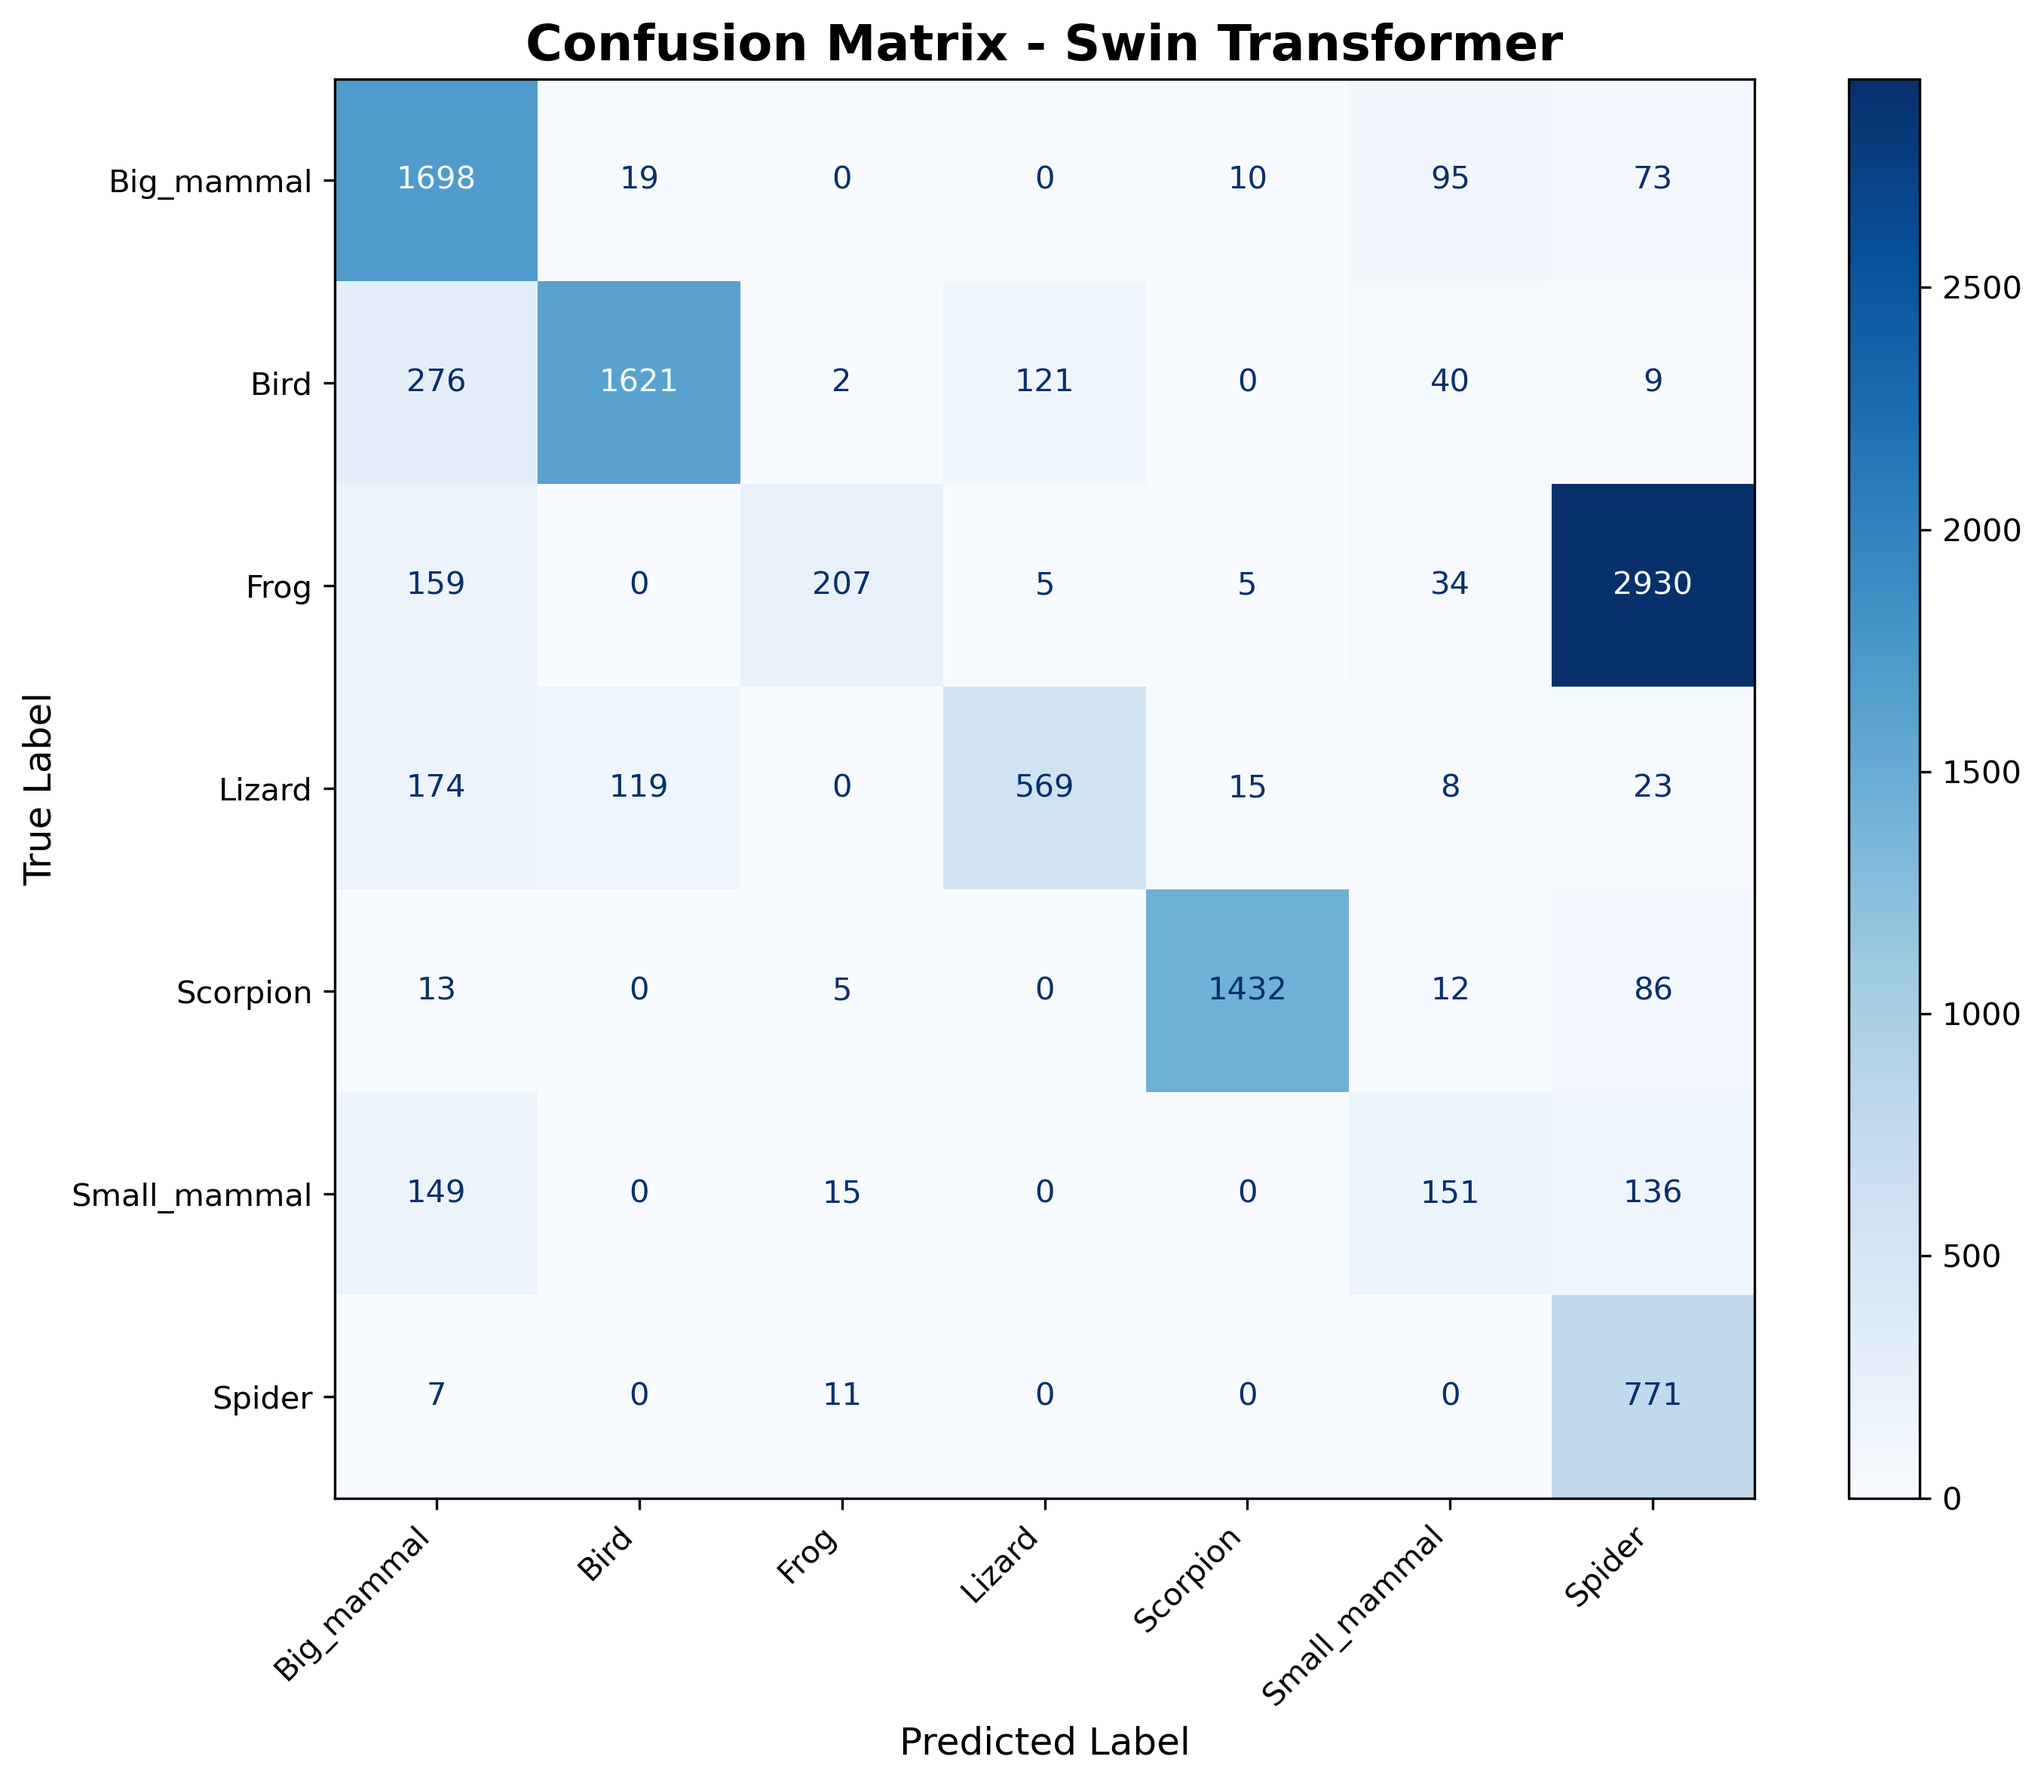
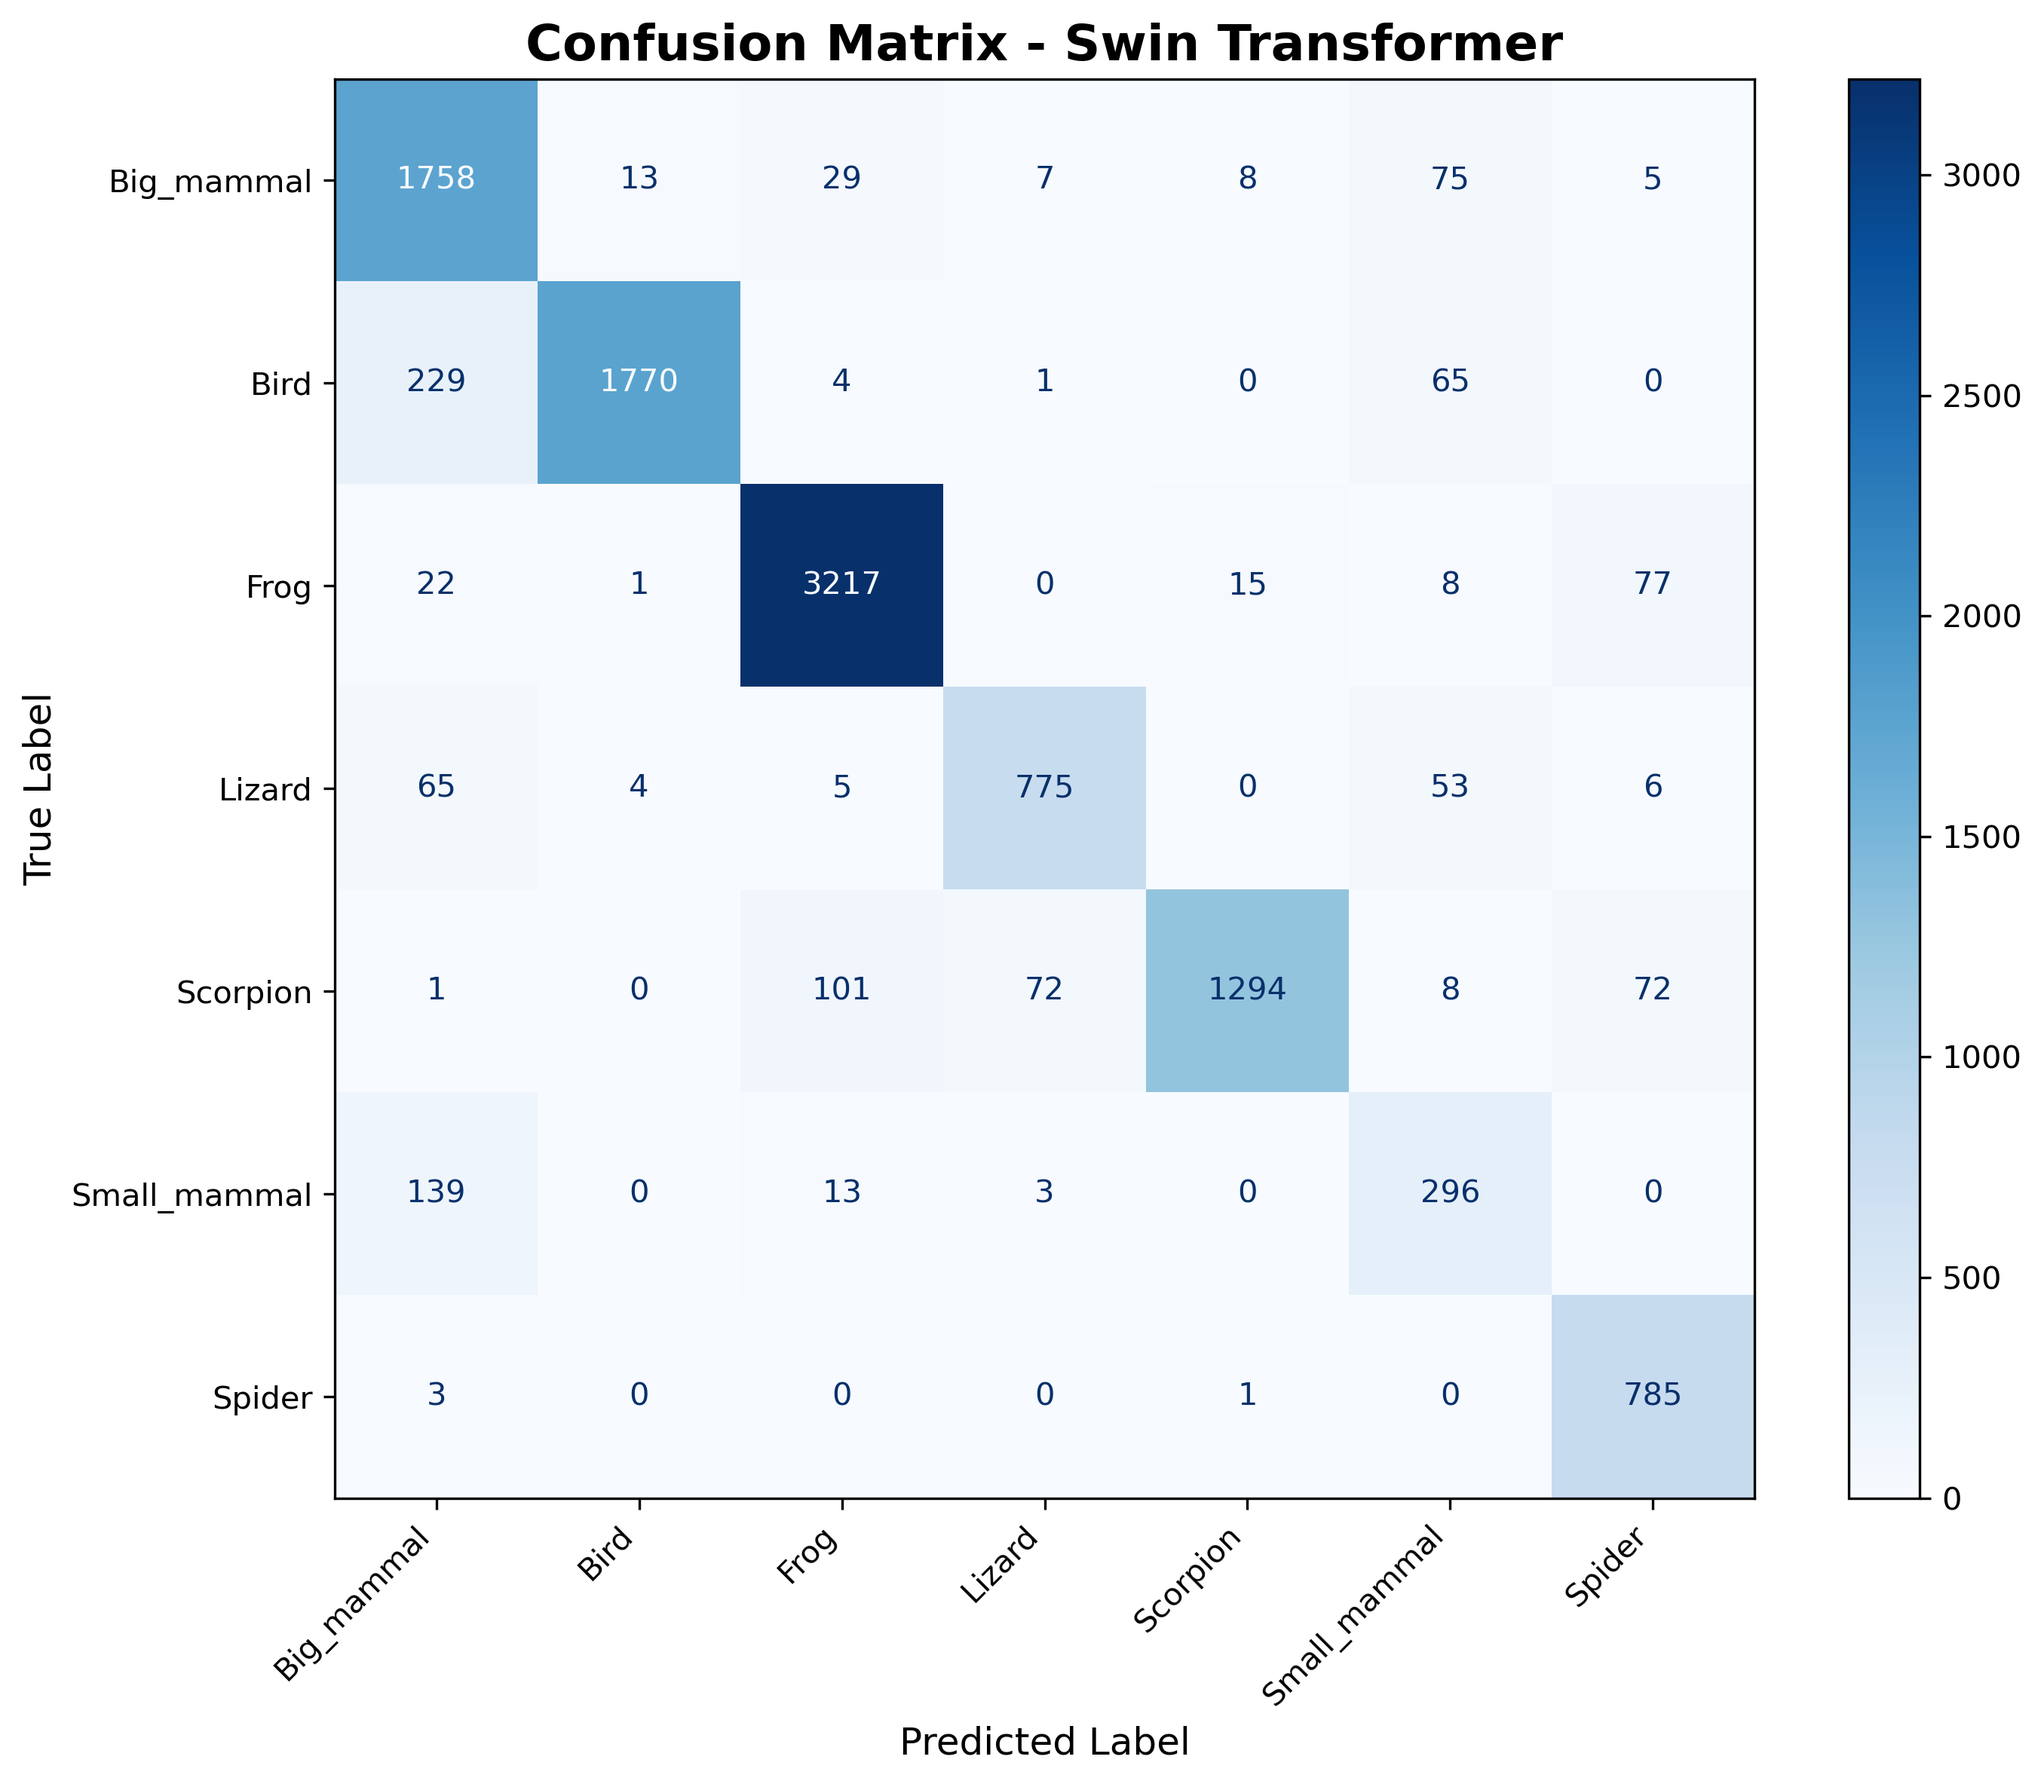
undid frog stuff and used object detection

diff --git a/dataset.py b/dataset.py
@@ -44,23 +44,71 @@ class DetectionAsClassificationDataset(Dataset):
         except:
             return None
 
+    def _parse_label_with_box(self, label_path):
+        """
+        Format: class_name x_min y_min x_max y_max
+        """
+        try:
+            with open(label_path, "r") as f:
+                line = f.readline().strip()
+
+            if not line:
+                return None, None
+
+            parts = line.split()
+            class_name = parts[0]
+            x1, y1, x2, y2 = map(int, parts[1:])
+
+            if self.class_map and class_name in self.class_map:
+                cls = self.class_map[class_name]
+            else:
+                return None, None
+
+            return cls, (x1, y1, x2, y2)
+
+        except:
+            return None, None
+
+
+    # def __getitem__(self, idx):
+    #     img_path = self.img_paths[idx]
+
+    #     # Load image
+    #     img = Image.open(img_path).convert("RGB")
+
+    #     # Find matching label file
+    #     base = os.path.splitext(os.path.basename(img_path))[0]
+    #     label_path = os.path.join(self.label_dir, base + ".txt")
+
+    #     # Parse label
+    #     label = self._parse_simple_label(label_path)
+
+    #     if label is None:s
+    #         label = 0  # fallback, but should rarely happen
+
+    #     if self.transforms:
+    #         img = self.transforms(img)
+
+    #     return img, label
+
     def __getitem__(self, idx):
         img_path = self.img_paths[idx]
+        img = Image.open(img_path).convert('RGB')
 
-        # Load image
-        img = Image.open(img_path).convert("RGB")
-
-        # Find matching label file
         base = os.path.splitext(os.path.basename(img_path))[0]
         label_path = os.path.join(self.label_dir, base + ".txt")
 
-        # Parse label
-        label = self._parse_simple_label(label_path)
+        cls, box = self._parse_label_with_box(label_path)
 
-        if label is None:
-            label = 0  # fallback, but should rarely happen
+        if cls is None or box is None:
+            raise ValueError(f"Invalid label file: {label_path}")
+
+        x1, y1, x2, y2 = box
+
+        # Crop to bounding box
+        crop = img.crop((x1, y1, x2, y2))
 
         if self.transforms:
-            img = self.transforms(img)
+            crop = self.transforms(crop)
 
-        return img, label
+        return crop, cls

diff --git a/train_swin.py b/train_swin.py
@@ -11,7 +11,7 @@ def main():
     # -------------------------
     # HYPERPARAMETERS - Adjusted to reduce overfitting and prioritize classes
     # -------------------------
-    EPOCHS = 12               # Reduced to prevent overfitting
+    EPOCHS = 25               # Reduced to prevent overfitting
     BATCH_SIZE = 16          # Reduce from 32 to 16 for better gradient updates
     LEARNING_RATE = 3e-5     # Even lower LR for stability
     WEIGHT_DECAY = 5e-4      # Increased regularization to reduce overfitting
